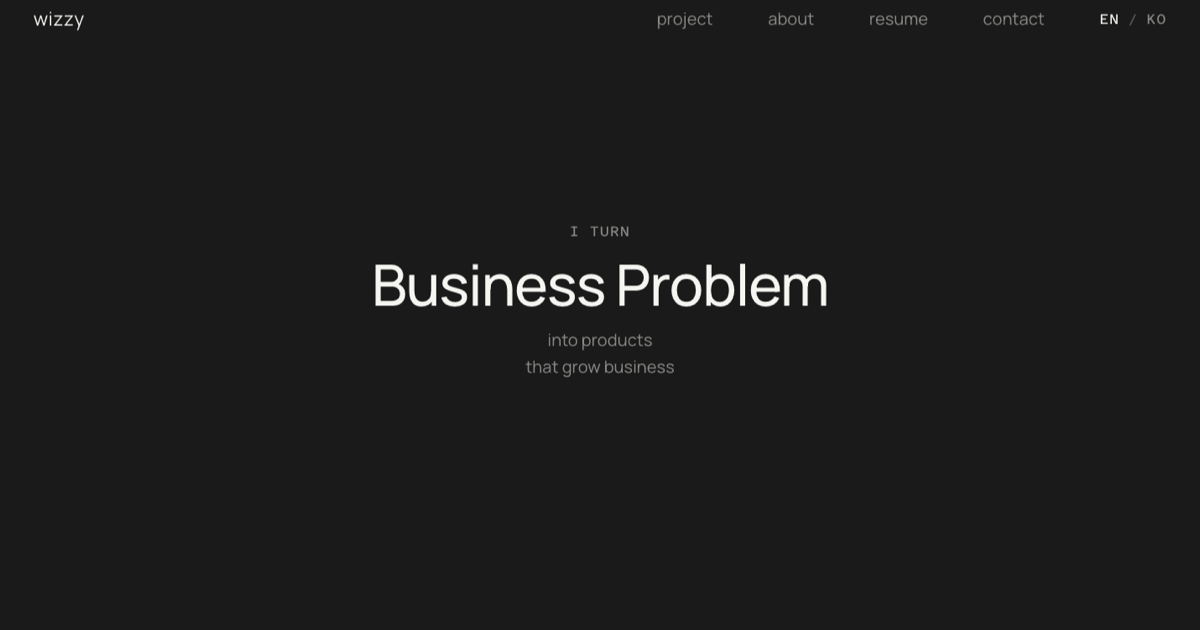
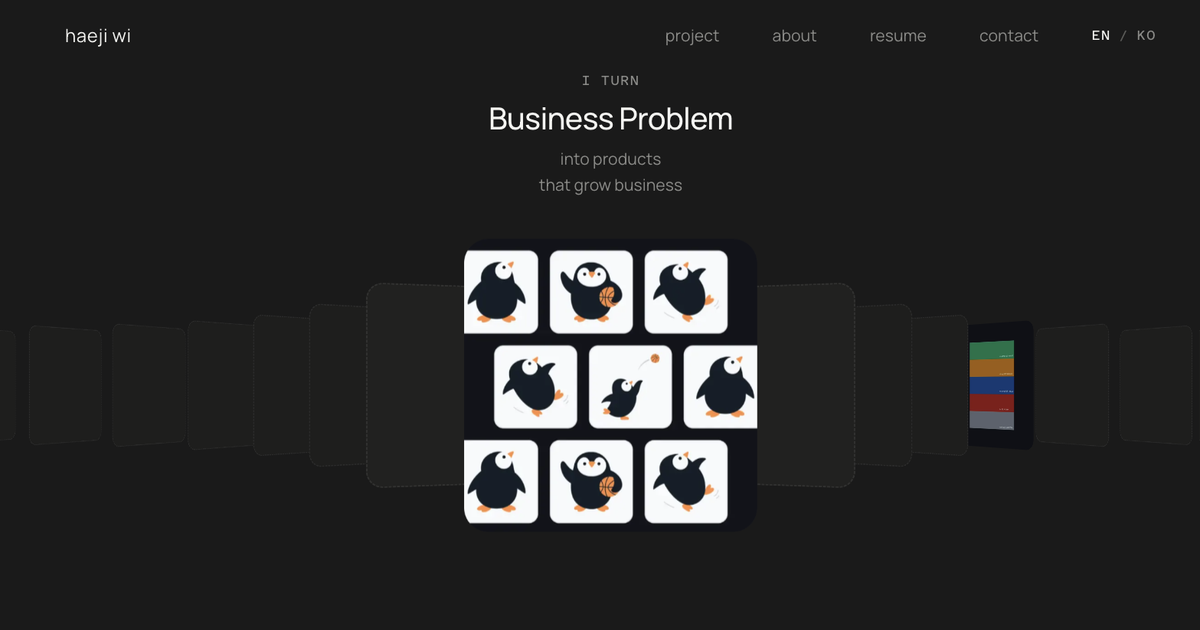
Sign the site with the designer's name, not the handle
The wordmark, the footer mark, the notice under it and the site name a
shared link carries were all "wizzy". They are now "Haeji Wi" — the same
string in both locales, since the header is a mark rather than prose. The
page titles split the way the scripts do: "위해지 — 프로덕트 디자이너" in
Korean, "Haeji Wi — Product Designer" in English.

The case-study title suffix was a second hardcoded copy of the same name.
It reads from the dictionary now, so the two cannot drift apart again.

The link-preview images had the old mark rendered into them, so both are
recaptured. What stays: the domain, the Wizzy Bakeshop case, and the
about section's own spelling of the name.

Claude-Session: https://claude.ai/code/session_018f83up87Stxxr1vwVwdF4S

diff --git a/src/components/HowIGotHereSection.tsx b/src/components/HowIGotHereSection.tsx
@@ -43,9 +43,10 @@ export default function HowIGotHereSection({
         {/*
           The section head is the person, not the list.
 
-          Everywhere else the page says "wizzy", which brands the work but never
-          names whoever made it — so the applicant's name is stated once, here,
-          at the top of about. It takes the display tier and the role sits under
+          The mark elsewhere on the page is the same name set in the wordmark's
+          lowercase — a brand treatment. This is where it is stated as a
+          person's name, in the script the locale reads: "Haeji Wi" in English,
+          "위해지" in Korean. It takes the display tier and the role sits under
           it as a label: the same size-then-ramp-then-face stack the hero uses,
           which is the only way this system builds hierarchy.
 

diff --git a/src/content/dictionaries/ko.ts b/src/content/dictionaries/ko.ts
@@ -9,12 +9,12 @@ import type { Dictionary } from "./en";
  */
 const ko: Dictionary = {
   meta: {
-    title: "Wizzy — 프로덕트 디자이너",
+    title: "위해지 — 프로덕트 디자이너",
     description: "비즈니스 문제를 성장하는 제품으로 바꿉니다.",
   },
 
   brand: {
-    name: "Wizzy",
+    name: "Haeji Wi",
     role: "프로덕트 디자이너",
   },
 
@@ -153,7 +153,7 @@ const ko: Dictionary = {
     locationValue: "서울, 대한민국",
     copied: "복사했습니다",
     // The mark stays lowercase Latin in both locales.
-    copyright: "© 2026 wizzy",
+    copyright: "© 2026 Haeji Wi",
   },
 };
 

diff --git a/src/app/[lang]/projects/[slug]/page.tsx b/src/app/[lang]/projects/[slug]/page.tsx
@@ -22,8 +22,12 @@ export async function generateMetadata({
   const project = getProject(slug);
   if (!hasLocale(lang) || !project) return {};
 
+  // The suffix is the site's name, so it reads from the dictionary rather than
+  // being spelled here — a second copy is how the two come to disagree.
+  const dict = await getDictionary(lang);
+
   return {
-    title: `${project.name} — Wizzy`,
+    title: `${project.name} — ${dict.brand.name}`,
     description: t(project.subtitle, lang),
     alternates: {
       languages: Object.fromEntries(LOCALES.map((l) => [l, `/${l}/projects/${slug}`])),

diff --git a/src/components/SiteFooter.tsx b/src/components/SiteFooter.tsx
@@ -90,8 +90,8 @@ export default function SiteFooter({
               {dict.brand.name}
             </p>
             {/* Label scale, but `normal-case`: the notice names the mark, and
-                uppercasing it to WIZZY would contradict the lowercase wordmark
-                directly above. */}
+                uppercasing it to HAEJI WI would contradict the lowercase
+                wordmark directly above. */}
             <p className="type-label mt-5 normal-case text-dim">
               {footer.copyright}
             </p>

diff --git a/src/content/dictionaries/en.ts b/src/content/dictionaries/en.ts
@@ -5,12 +5,12 @@
  */
 const en = {
   meta: {
-    title: "Wizzy — Product Designer",
+    title: "Haeji Wi — Product Designer",
     description: "I turn business problems into products that grow business.",
   },
 
   brand: {
-    name: "Wizzy",
+    name: "Haeji Wi",
     role: "Product designer",
   },
 
@@ -173,7 +173,7 @@ const en = {
     location: "Location",
     locationValue: "Seoul, South Korea",
     copied: "Copied!",
-    copyright: "© 2026 wizzy",
+    copyright: "© 2026 Haeji Wi",
   },
 };
 
